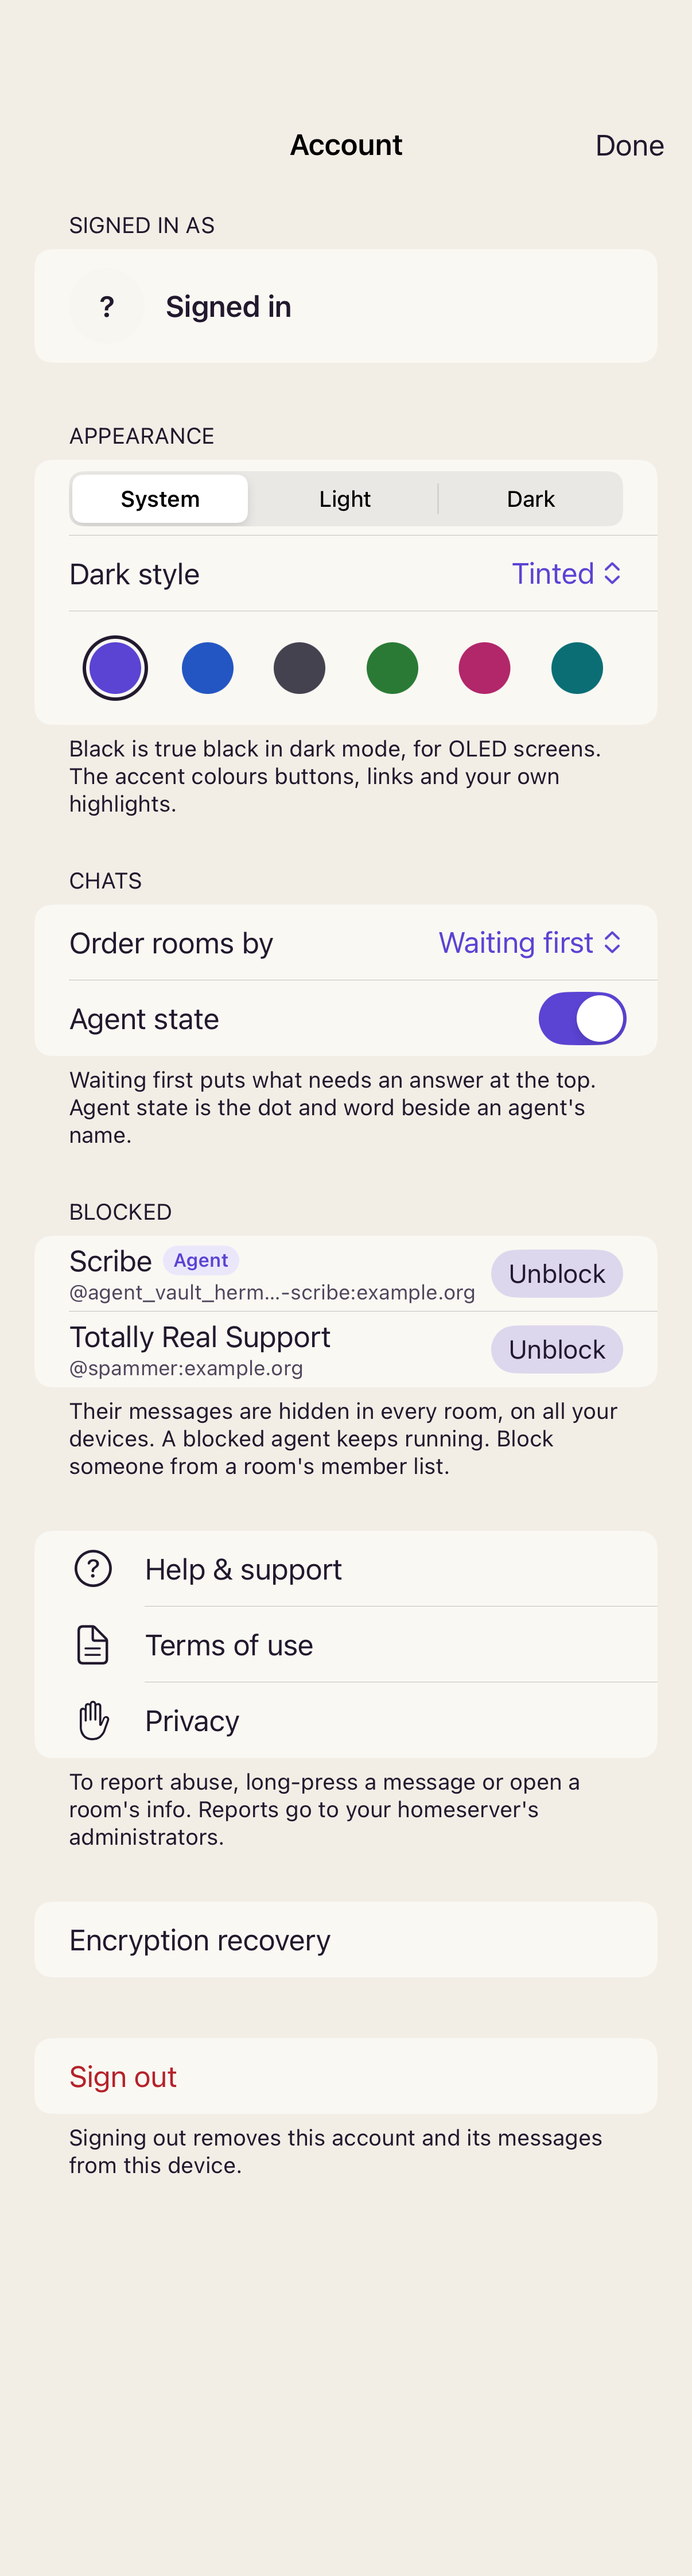
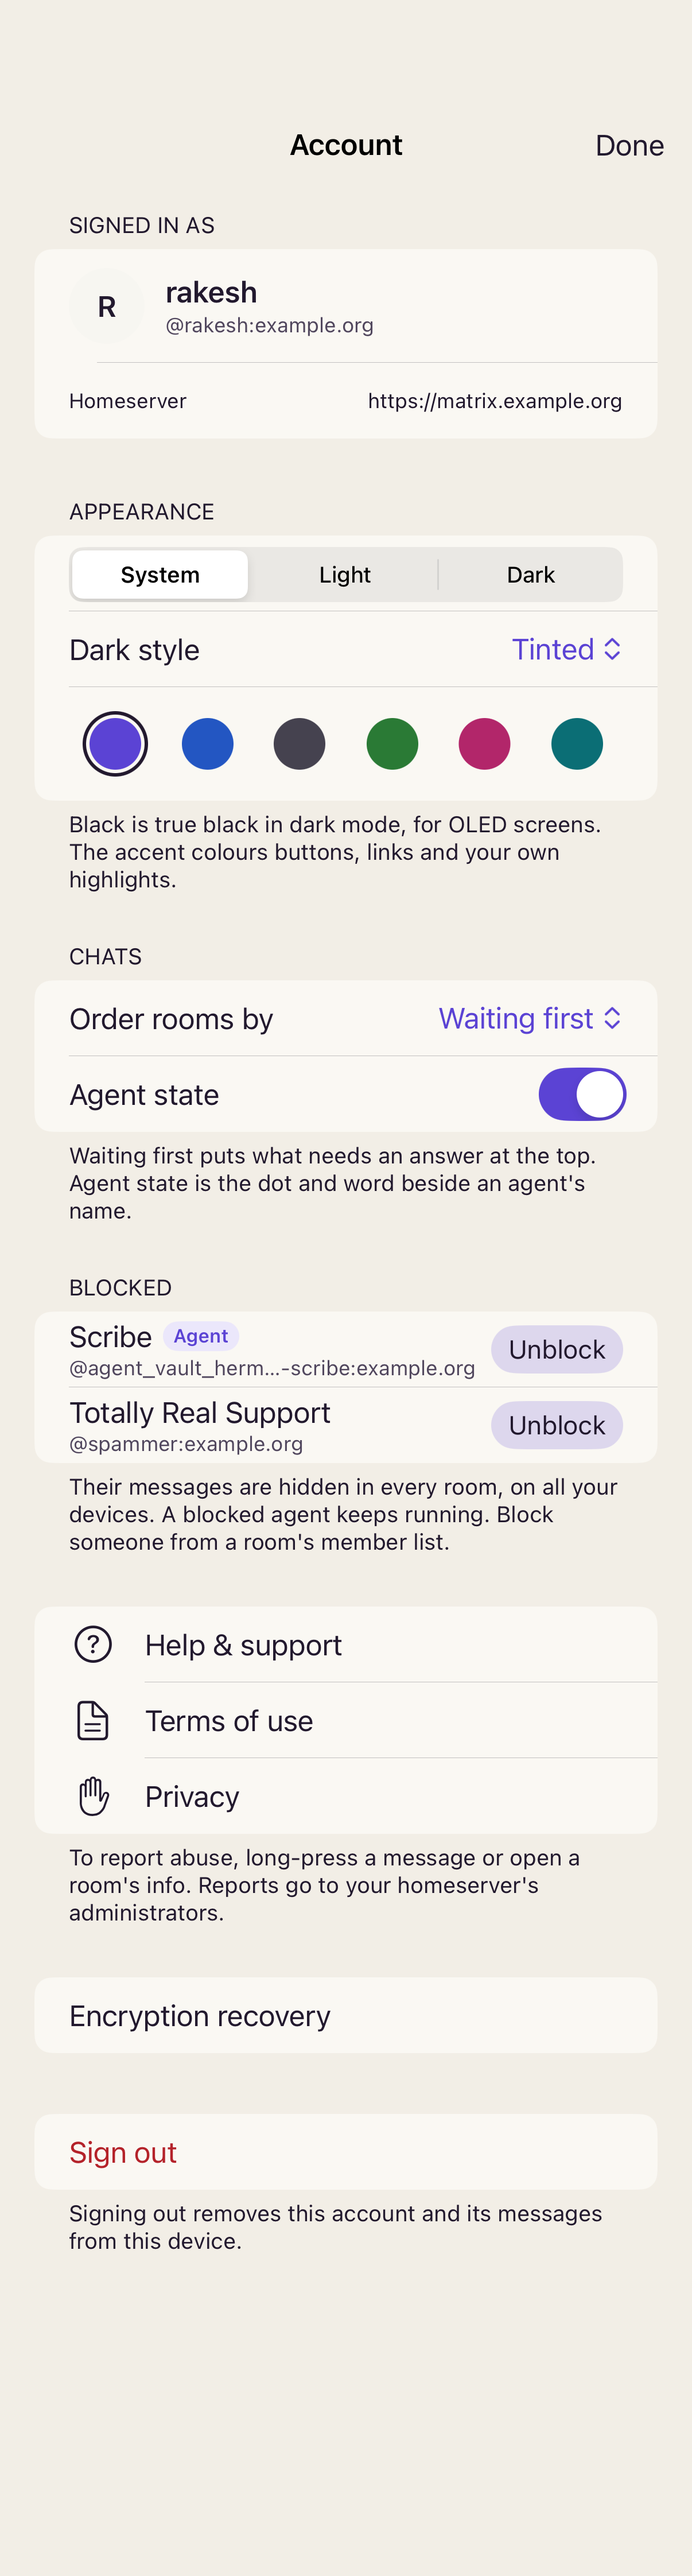
Previews: hand AccountPanel its account instead of racing .task for it
CI drew the Blocked users preview as "? Signed in" on one run and as
"rakesh" on the next: the account arrives from session.account() in a
.task, and whether it lands before the snapshot is timing. The DEBUG
initialiser now takes the account the same way it already takes the
blocked list, so both previews render the loaded state every time.

Claude-Session: https://claude.ai/code/session_01Ay3q8gacHFVinDQeR9g4XF

Changed region(s): [[0.092, 0.156, 0.9204, 0.8734], [0.2454, 0.0936, 0.3988, 0.1248], [0.4909, 0.1872, 0.5216, 0.2184]]

diff --git a/apple/Supermessage/Panels/AccountPanel.swift b/apple/Supermessage/Panels/AccountPanel.swift
@@ -33,11 +33,17 @@ struct AccountPanel: View {
     }
 
     #if DEBUG
-    /// The panel with its blocked list already loaded — the list arrives from
-    /// its own `await`, and a frame must not depend on which won.
-    init(session: Session, blocked: [RoomMemberDto], onClose: @escaping () -> Void) {
+    /// The panel with its account and blocked list already loaded — each
+    /// arrives from its own `await`, and a frame must not depend on which won
+    /// the race with the snapshot (CI drew "rakesh" on one run and "?" on the
+    /// next).
+    init(
+        session: Session, account: AccountDto, blocked: [RoomMemberDto],
+        onClose: @escaping () -> Void
+    ) {
         self.session = session
         self.onClose = onClose
+        _account = State(initialValue: account)
         _blocked = State(initialValue: blocked)
     }
     #endif
@@ -260,14 +266,17 @@ private struct AccentSwatches: View {
 #if DEBUG
 // The account, which is two facts and a way out.
 #Preview("Account") {
-    AccountPanel(session: PreviewFixtures.session(), blocked: [], onClose: {})
+    AccountPanel(
+        session: PreviewFixtures.session(), account: PreviewFixtures.account, blocked: [],
+        onClose: {})
         .previewChrome()
 }
 
 // Two blocked accounts, an agent and a person, each with a way back.
 #Preview("Blocked users") {
     AccountPanel(
-        session: PreviewFixtures.session(), blocked: PreviewFixtures.blockedUsers, onClose: {}
+        session: PreviewFixtures.session(), account: PreviewFixtures.account,
+        blocked: PreviewFixtures.blockedUsers, onClose: {}
     )
     // Tall enough for the whole list: the blocked section sits below the
     // fold on a phone, and a frame that cropped it would be a frame of the

diff --git a/apple/Supermessage/Previews/PreviewFixtures.swift b/apple/Supermessage/Previews/PreviewFixtures.swift
@@ -200,11 +200,7 @@ struct PreviewClient: SessionClient {
 
     // MARK: AccountDirectory
 
-    func account() async throws -> AccountDto {
-        AccountDto(
-            userId: PreviewFixtures.accountUserId,
-            homeserver: "https://matrix.example.org")
-    }
+    func account() async throws -> AccountDto { PreviewFixtures.account }
     func knownPeople() async throws -> [PersonDto] {
         isEmpty ? [] : PreviewFixtures.people
     }
@@ -713,6 +709,10 @@ enum PreviewFixtures {
 
     /// Two blocked accounts — an agent and a person — as `ignoredUsers` names
     /// them: the agent from its id, the person from a member event.
+    static var account: AccountDto {
+        AccountDto(userId: accountUserId, homeserver: "https://matrix.example.org")
+    }
+
     static var blockedUsers: [RoomMemberDto] {
         [
             RoomMemberDto(
